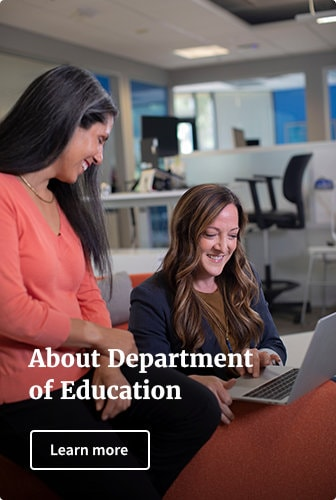
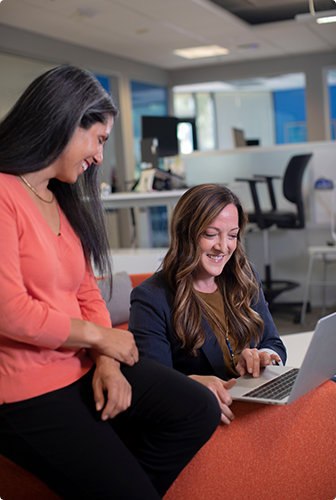
feat(home): Add about section styles (WIP)

Changed region(s): [[0.0, 0.6, 1.0, 1.0], [0.0, 0.99, 0.0298, 1.0]]

diff --git a/src/pages/index.js b/src/pages/index.js
@@ -5,6 +5,7 @@ import Layout from "../components/layout"
 import Image from "../components/image"
 import SEO from "../components/seo"
 import ATallContent from "../components/atoms/a-tall-content"
+import twitterSmall from "../images/twitter_small.svg"
 
 const container = {
   hidden: {
@@ -27,7 +28,7 @@ const container = {
 const IndexPage = () => (
   <Layout>
     <SEO title="Home" />
-    <section className="main-categories text-white">
+    <section className="main-categories">
       <motion.div
         className="flex flex-wrap container mx-auto divide-x divide-white"
         variants={container}
@@ -40,6 +41,7 @@ const IndexPage = () => (
           body={`Get all the info you need to apply for or manage repayment of your federal student loans.`}
           link={`/loans`}
           cta={`Explore`}
+          className={"w-full sm:w-1/2 lg:w-1/4"}
         />
         <ATallContent
           image={`grants_and_programs.jpg`}
@@ -48,6 +50,7 @@ const IndexPage = () => (
           grants awarded.`}
           link={`/grants`}
           cta={`Explore`}
+          className={"w-full sm:w-1/2 lg:w-1/4"}
         />
         <ATallContent
           image={`laws_and_guidance.jpg`}
@@ -55,6 +58,7 @@ const IndexPage = () => (
           body={`Find federal education legislation, regulations, guidance, and other policy documents.`}
           link={`/grants`}
           cta={`Explore`}
+          className={"w-full sm:w-1/2 lg:w-1/4"}
         />
         <ATallContent
           image={`data_and_research.jpg`}
@@ -62,8 +66,59 @@ const IndexPage = () => (
           body={`Explore and download data and learn about education-related data and research.`}
           link={`/a`}
           cta={`Explore`}
+          className={"w-full sm:w-1/2 lg:w-1/4"}
         />
       </motion.div>
+    </section>
+    <div className={"container max-w-7xl py-14 text-gr-dark"}>
+      <span className={"text-sm uppercase"}>Mission</span>
+      <p className={"text-lg font-display font-bold mt-4"}>
+        Our mission is to promote student achievement and preparation for global
+        competitiveness by fostering educational excellence and ensuring equal
+        access.
+      </p>
+    </div>
+    <section className="container max-w-7xl about-highlights grid grid-cols-3 gap-3 mb-8">
+      <ATallContent
+        image={`about_ed_gov.jpg`}
+        heading={`About Department of Education`}
+        link={`/a`}
+        cta={`Learn more`}
+        className={"rounded-md overflow-hidden"}
+      />
+      <ATallContent
+        image={`betsy_devos.jpg`}
+        heading={`Betsy DeVos`}
+        subtitle={"Secretary of Education"}
+        link={`/a`}
+        cta={`Learn more`}
+        className={"rounded-md overflow-hidden"}
+      />
+      <ATallContent
+        heading={`Betsy DeVos`}
+        subtitle={"Secretary of Education"}
+        link={`/a`}
+        cta={`Learn more`}
+        className={"bg-bl"}
+        innerClassName={"p-4 py-8"}
+      >
+        <header>
+          <svg
+            viewBox={twitterSmall.viewBox}
+            className={"w-8 m-4 text-black float-left"}
+          >
+            <use xlinkHref={`#${twitterSmall.id}`} />
+          </svg>
+          <strong className={"block p-4"}>@BetsyDeVosED</strong>
+        </header>
+        <p className={"font-display text-md leading-10 tracking-wide p-4"}>
+          While these are challenging times, we must take this opportunity, and
+          use these new resources, to transform education to meet the needs of
+          all students, of all ages, everywhere. If we do that, we will emerge
+          from #COVID19 stronger & better able to serve students than ever
+          before.
+        </p>
+      </ATallContent>
     </section>
   </Layout>
 )

diff --git a/src/components/atoms/a-tall-content.js b/src/components/atoms/a-tall-content.js
@@ -12,41 +12,59 @@ const item = {
 const ATallContent = props => {
   const images = useStaticImage()
   const image = images[props.image]
+  const { children } = props
+  const content = children ? (
+    children
+  ) : (
+    <>
+      {image ? (
+        <Img
+          fluid={image}
+          className={
+            "w-full object-cover h-full object-center block absolute inset-0"
+          }
+          style={{
+            position: "absolute",
+          }}
+        />
+      ) : null}
+      <div
+        className="inset-0 absolute"
+        style={{
+          background:
+            "linear-gradient(180deg, rgba(255,255,255,0) 35%, rgba(0,0,0,0.4) 100%)",
+        }}
+      ></div>
+      <div className="relative z-10 w-full ">
+        {props.subtitle ? (
+          <span
+            className={
+              "block text-sm font-medium tracking-wider uppercase mb-2"
+            }
+          >
+            {props.subtitle}
+          </span>
+        ) : null}
+        <h2 className="text-lg font-display font-bold title-font mb-4">
+          {props.heading}
+        </h2>
+        {props.body ? <p className="text-base pb-6">{props.body}</p> : null}
+        <span className="inline-flex rounded-md">
+          <button type="button" className="btn btn-ghost">
+            {props.cta}
+          </button>
+        </span>
+      </div>
+    </>
+  )
   return (
     <>
-      <motion.div className="w-full sm:w-1/2 lg:w-1/4" variants={item}>
+      <motion.div
+        className={["text-white", props.className].join(" ")}
+        variants={item}
+      >
         <Link to={props.link}>
-          <div className="flex items-end w-full bg-gray-100 sm:py-12 py-16 sm:px-12 px-6 relative h-banner">
-            {image ? (
-              <Img
-                fluid={image}
-                className={
-                  "w-full object-cover h-full object-center block absolute inset-0"
-                }
-                style={{
-                  position: "absolute",
-                }}
-              />
-            ) : null}
-            <div
-              className="inset-0 absolute"
-              style={{
-                background:
-                  "linear-gradient(180deg, rgba(255,255,255,0) 35%, rgba(0,0,0,0.4) 100%)",
-              }}
-            ></div>
-            <div className="relative z-10 w-full ">
-              <h2 className="text-lg font-display font-medium title-font mb-2">
-                {props.heading}
-              </h2>
-              <p className="text-base pb-6">{props.body}</p>
-              <span className="inline-flex rounded-md">
-                <button type="button" className="btn btn-ghost">
-                  {props.cta}
-                </button>
-              </span>
-            </div>
-          </div>
+          <div className={props.innerClassName}>{content}</div>
         </Link>
       </motion.div>
     </>
@@ -57,16 +75,22 @@ ATallContent.propTypes = {
   src: PropTypes.string,
   heading: PropTypes.string,
   body: PropTypes.string,
+  subtitle: PropTypes.string,
   link: PropTypes.string,
   cta: PropTypes.string,
+  className: PropTypes.string,
+  innerClassName: PropTypes.string,
 }
 
 ATallContent.defaultProps = {
   image: ``,
   heading: `Test Heading`,
   body: ``,
+  subtitle: ``,
   link: ``,
   cta: `Explore`,
+  className: `bg-gray-100`,
+  innerClassName: `flex items-end w-full sm:py-12 py-16 sm:px-12 px-6 relative h-banner`,
 }
 
 export default ATallContent

diff --git a/tailwind.config.js b/tailwind.config.js
@@ -41,7 +41,10 @@ module.exports = {
           default: "#004185",
           highlight: "#1F5B99",
         },
-        gr: "#DBE3E7",
+        gr: {
+          default: "#DBE3E7",
+          dark: "#2D2E2F",
+        },
       },
       spacing: {},
     },
